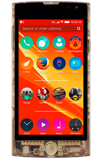
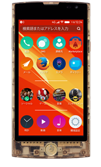
Update Fx0 device screenshot. Bug 1116429.

diff --git a/bedrock/firefox/templates/firefox/os/devices.html b/bedrock/firefox/templates/firefox/os/devices.html
@@ -1848,7 +1848,7 @@
           </li>
           <li class="last">
             <a href="#au_fx0" class="device-thumbnail">
-              <img src="{{ media('/img/firefox/os/devices/smartphones/au-fx0-thumb.png') }}" alt="">
+              <img src="{{ media('/img/firefox/os/devices/smartphones/au-fx0-thumb.png?2015-01') }}" alt="">
               <span class="device-name raw-format">{{ _('Fx0') }}</span>
               <div class="availability-notice">
                 <span class="is-available">{{ _('Available') }}</span>
@@ -2115,7 +2115,7 @@
                 </div>
 
                 <div class="feature-group image">
-                  <img src="{{ media('/img/firefox/os/devices/smartphones/au-fx0.png') }}" alt="{{ _('au Fx0') }}">
+                  <img src="{{ media('/img/firefox/os/devices/smartphones/au-fx0.png?2015-01') }}" alt="{{ _('au Fx0') }}">
                 </div>
 
                 <div class="feature-group stats">
